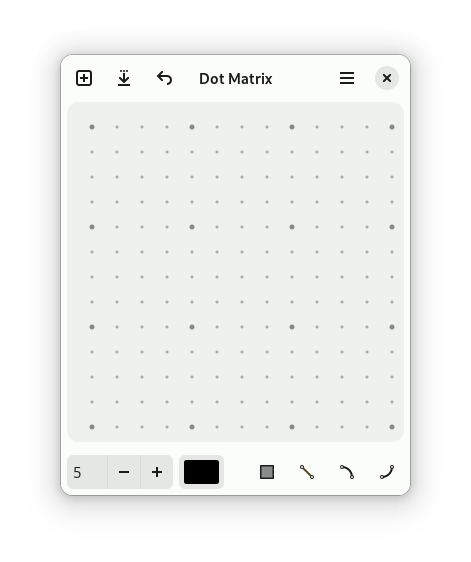
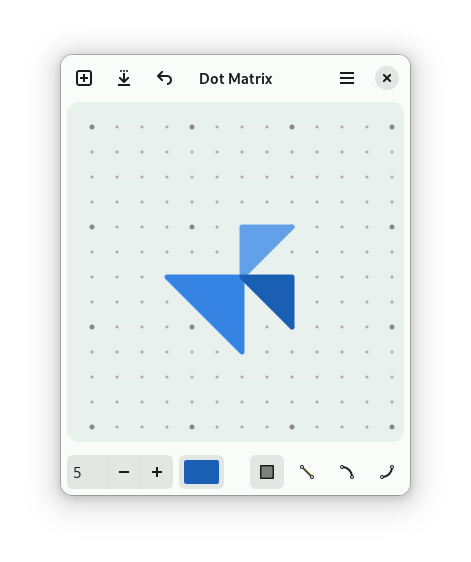
* - make UI colors correct

Changed region(s): [[0.3567, 0.3932, 0.6242, 0.6352], [0.3864, 0.8167, 0.4756, 0.8772]]

diff --git a/data/style.css b/data/style.css
@@ -1,10 +1,10 @@
 @define-color accent_color #006b57;
 @define-color accent_bg_color #006b57;
 @define-color accent_fg #ffffff;
-@define-color window_bg_color #fafdfa;
-@define-color view_bg_color #eef1ee;
-@define-color headerbar_bg_color #fafdfa;
-@define-color popover_bg_color #eef1ee;
+@define-color window_bg_color #f8fdfa;
+@define-color view_bg_color #e8f1ee;
+@define-color headerbar_bg_color #f8fdfa;
+@define-color popover_bg_color #e8f1ee;
 @define-color popover_fg_color #191c1b;
 @define-color window_fg_color #191c1b;
 @define-color view_fg_color #191c1b;
